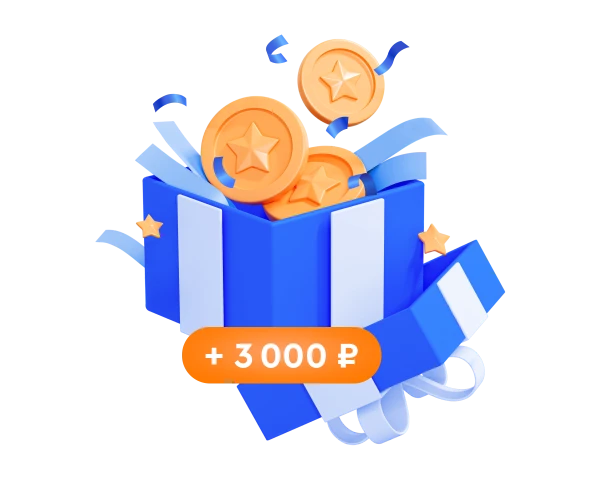
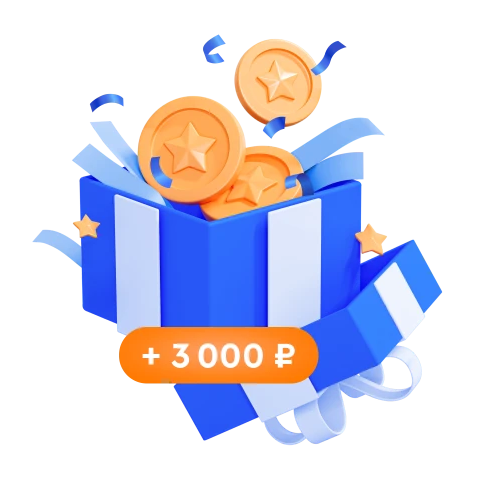
fix section benefits

Changed region(s): [[0.0625, 0.0625, 0.9375, 0.9375], [0.4688, 0.875, 0.5, 0.9062]]

diff --git a/css/style.css b/css/style.css
@@ -2170,14 +2170,15 @@ a {
 }
 @media (min-width: 1024px) {
   .benefit__wrapper {
-    padding: 40px 60px;
+    padding: 41px 60px;
   }
 }
 @media (min-width: 1304px) {
   .benefit__wrapper {
-    padding: 80px;
+    padding: 55px 55px 13px 80px;
     display: flex;
     flex-direction: row-reverse;
+    justify-content: space-between;
   }
 }
 @media (min-width: 1304px) {
@@ -2193,8 +2194,19 @@ a {
     margin: 0 auto 40px auto;
   }
 }
+@media (min-width: 1024px) {
+  .benefit__image {
+    width: 320px;
+  }
+}
+@media (min-width: 1304px) {
+  .benefit__image {
+    width: 100%;
+  }
+}
 @media (min-width: 1304px) {
   .benefit__content {
+    padding-top: 26px;
     max-width: 560px;
   }
 }
@@ -2243,6 +2255,33 @@ a {
 @media (min-width: 1024px) {
   .benefit__list {
     margin: 0 0 40px 0;
+  }
+}
+.benefit__item {
+  position: relative;
+  padding-left: 30px;
+  list-style: none;
+}
+.benefit__item::before {
+  content: "";
+  position: absolute;
+  top: 0;
+  left: 0;
+  width: 20px;
+  height: 20px;
+  background-image: url("../../images/sprite/icon-accepted.svg");
+  background-repeat: no-repeat;
+  background-position: center;
+  background-size: 20px 20px;
+}
+@media (min-width: 768px) {
+  .benefit__item:not(:last-child) {
+    margin-bottom: 2px;
+  }
+}
+@media (min-width: 1304px) {
+  .benefit__item:not(:last-child) {
+    margin-bottom: 1px;
   }
 }
 .benefit__text {

diff --git a/scss/blocks/_benefit.scss b/scss/blocks/_benefit.scss
@@ -19,13 +19,14 @@
     }
 
     @include vp-1024 {
-      padding: 40px 60px;
+      padding: 41px 60px;
     }
 
     @include vp-1304 {
-      padding: 80px;
+      padding: 55px 55px 13px 80px;
       display: flex;
       flex-direction: row-reverse;
+      justify-content: space-between;
     }
   }
 
@@ -41,10 +42,19 @@
     @include vp-768 {
       margin: 0 auto 40px auto;
     }
+
+    @include vp-1024 {
+      width: 320px;
+    }
+
+    @include vp-1304 {
+      width: 100%;
+    }
   }
 
   &__content {
     @include vp-1304 {
+      padding-top: 26px;
       max-width: 560px;
     }
   }
@@ -92,6 +102,37 @@
 
     @include vp-1024 {
       margin: 0 0 40px 0;
+    }
+  }
+
+  &__item {
+    position: relative;
+    padding-left: 30px;
+    list-style: none;
+
+    &::before {
+      content: "";
+      position: absolute;
+      top: 0;
+      left: 0;
+      width: 20px;
+      height: 20px;
+      background-image: url("../../images/sprite/icon-accepted.svg");
+      background-repeat: no-repeat;
+      background-position: center;
+      background-size: 20px 20px;
+    }
+
+    @include vp-768 {
+      &:not(:last-child) {
+        margin-bottom: 2px;
+      }
+    }
+
+    @include vp-1304 {
+      &:not(:last-child) {
+        margin-bottom: 1px;
+      }
     }
   }
 

diff --git a/privileges.html b/privileges.html
@@ -495,7 +495,7 @@
       <div class="benefit__wrapper">
         <picture class="benefit__picture">
           <source srcset="images/gift-desktop-lg.png, images/gift-desktop-lg@2x.png 2x" media="(min-width: 1304px)"
-                  width="600" height="480">
+                  width="480" height="480">
           <source srcset="images/gift-desktop.png, images/gift-desktop@2x.png 2x" media="(min-width: 1024px)"
                   width="400" height="320">
           <source srcset="images/gift-tablet.png, images/gift-tablet@2x.png 2x" media="(min-width: 768px)" width="300"
@@ -527,7 +527,7 @@
               <p class="benefit__text">149 руб&nbsp;&mdash; СМС-уведомления и&nbsp;обслуживание стикера</p>
             </li>
           </ul>
-          <p class="benefit__bottom-text">А&nbsp;еще +2&nbsp;000 руб кэшбэк, экономия 700 руб на&nbsp;комиссии за&nbsp;переводы,
+          <p class="benefit__bottom-text">А&nbsp;еще +2&nbsp;000 руб кэшбэк, экономия 700 руб на&nbsp;комиссии за&nbsp;переводы,
             1&nbsp;000 руб на&nbsp;снятии наличных и&nbsp;многое другое</p>
         </div>
       </div>
